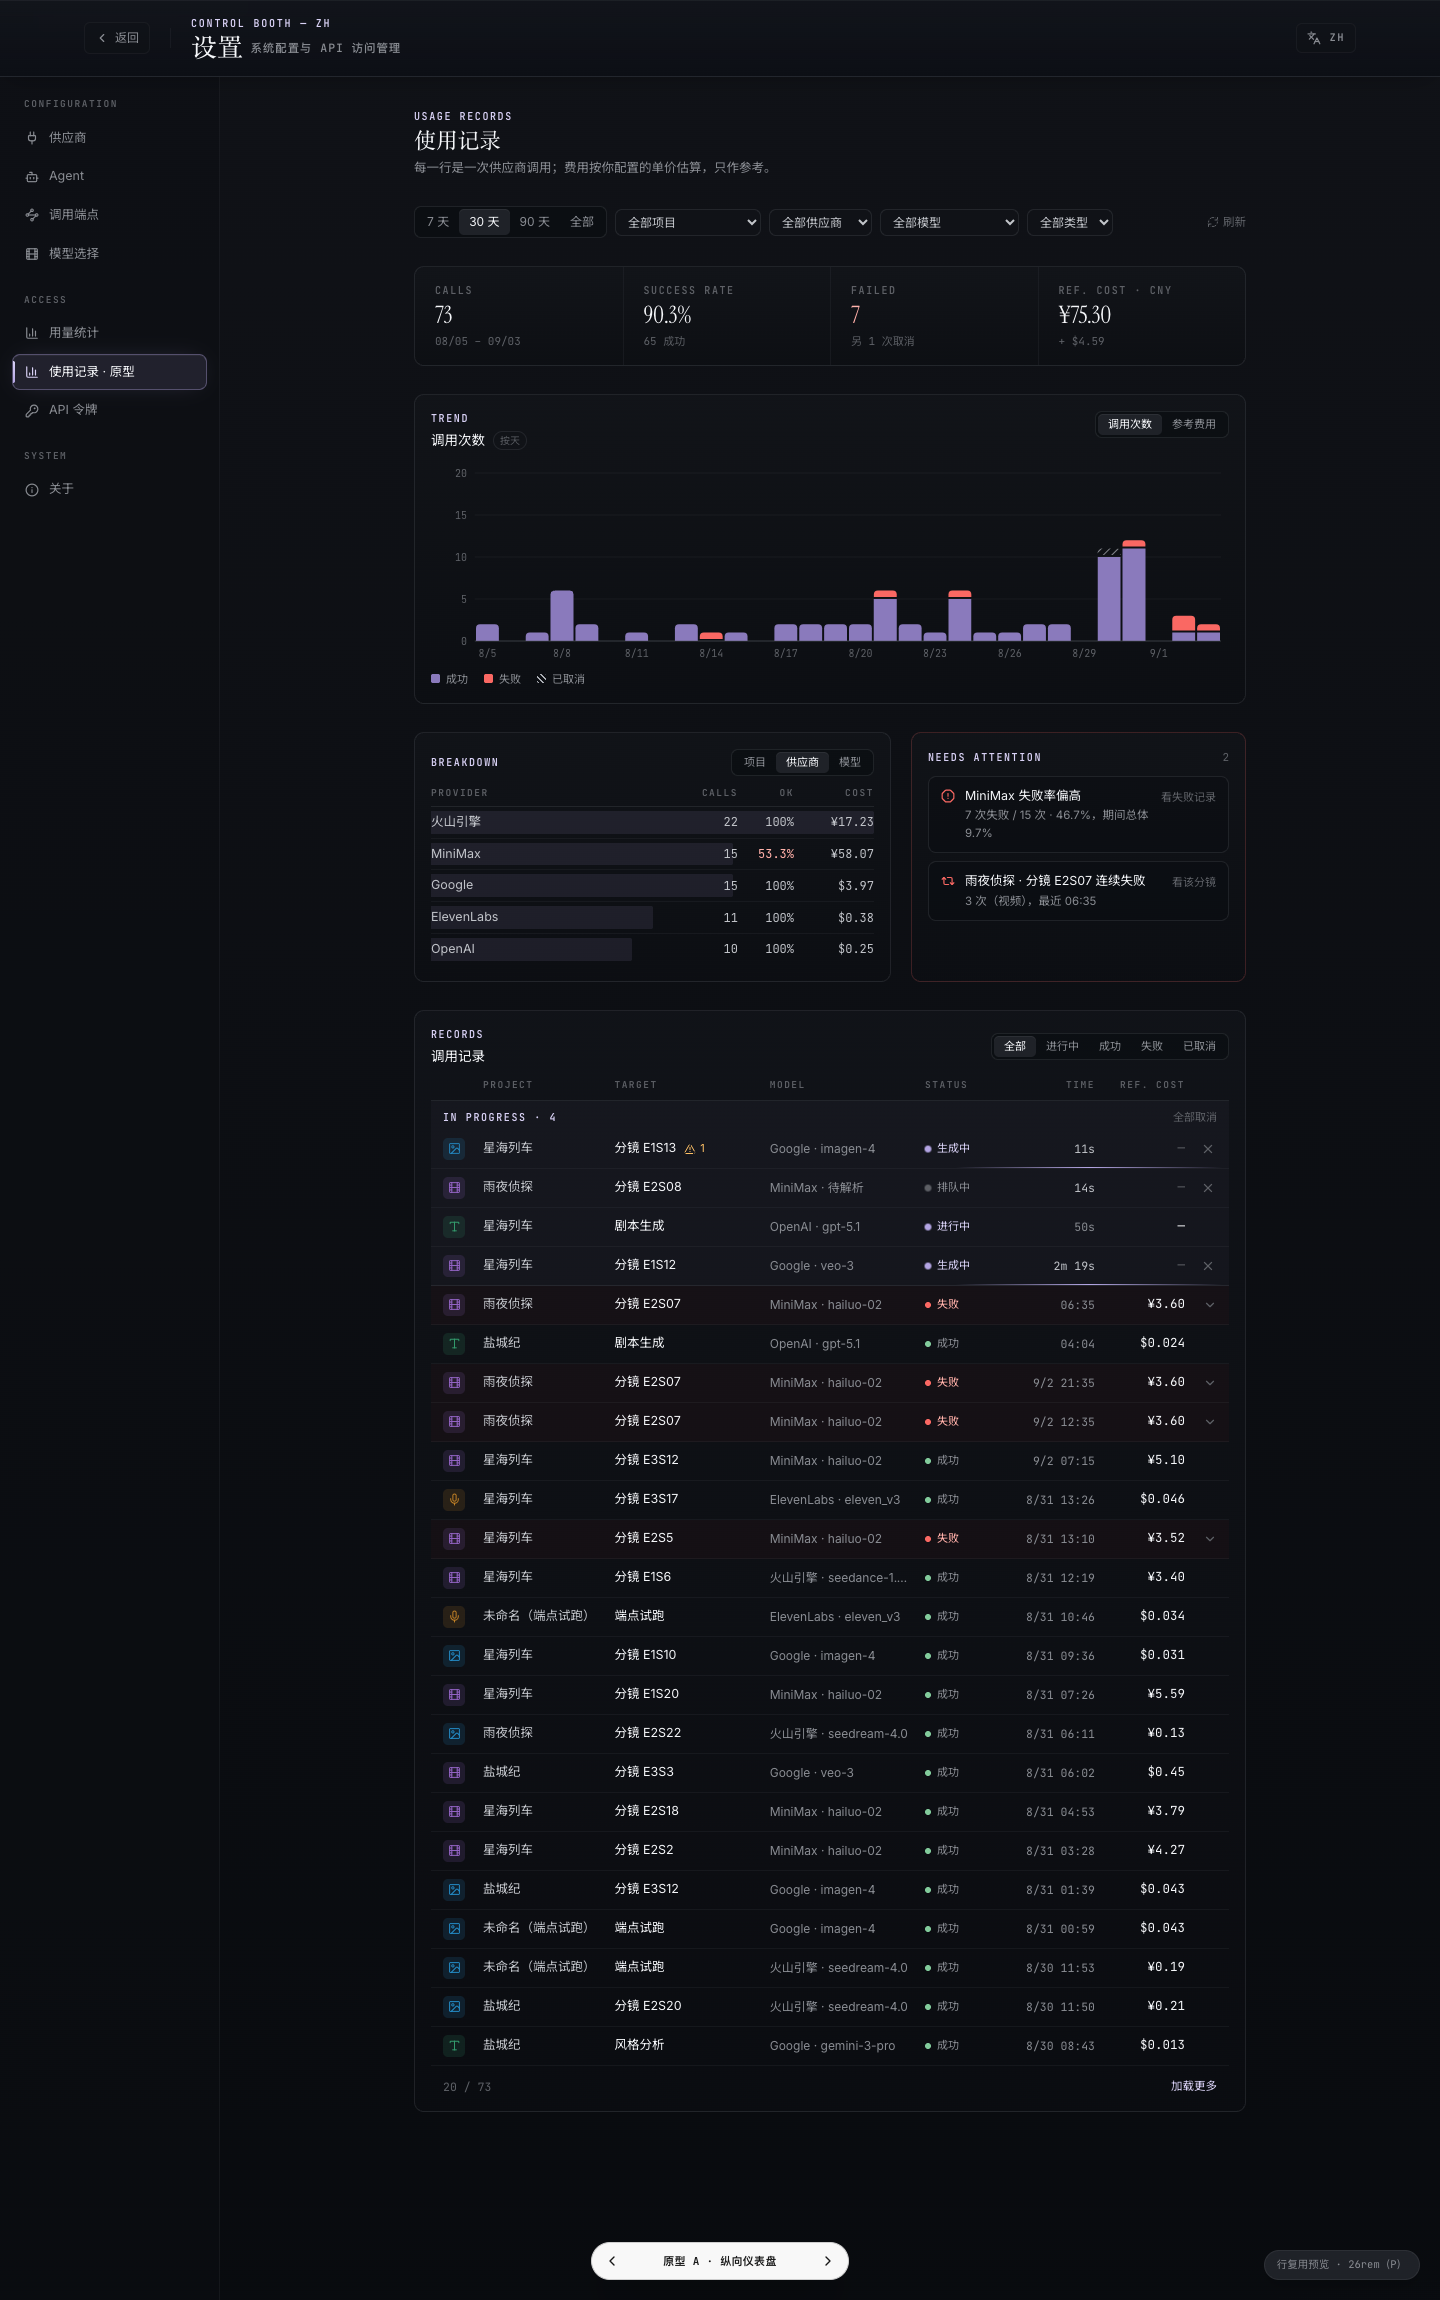
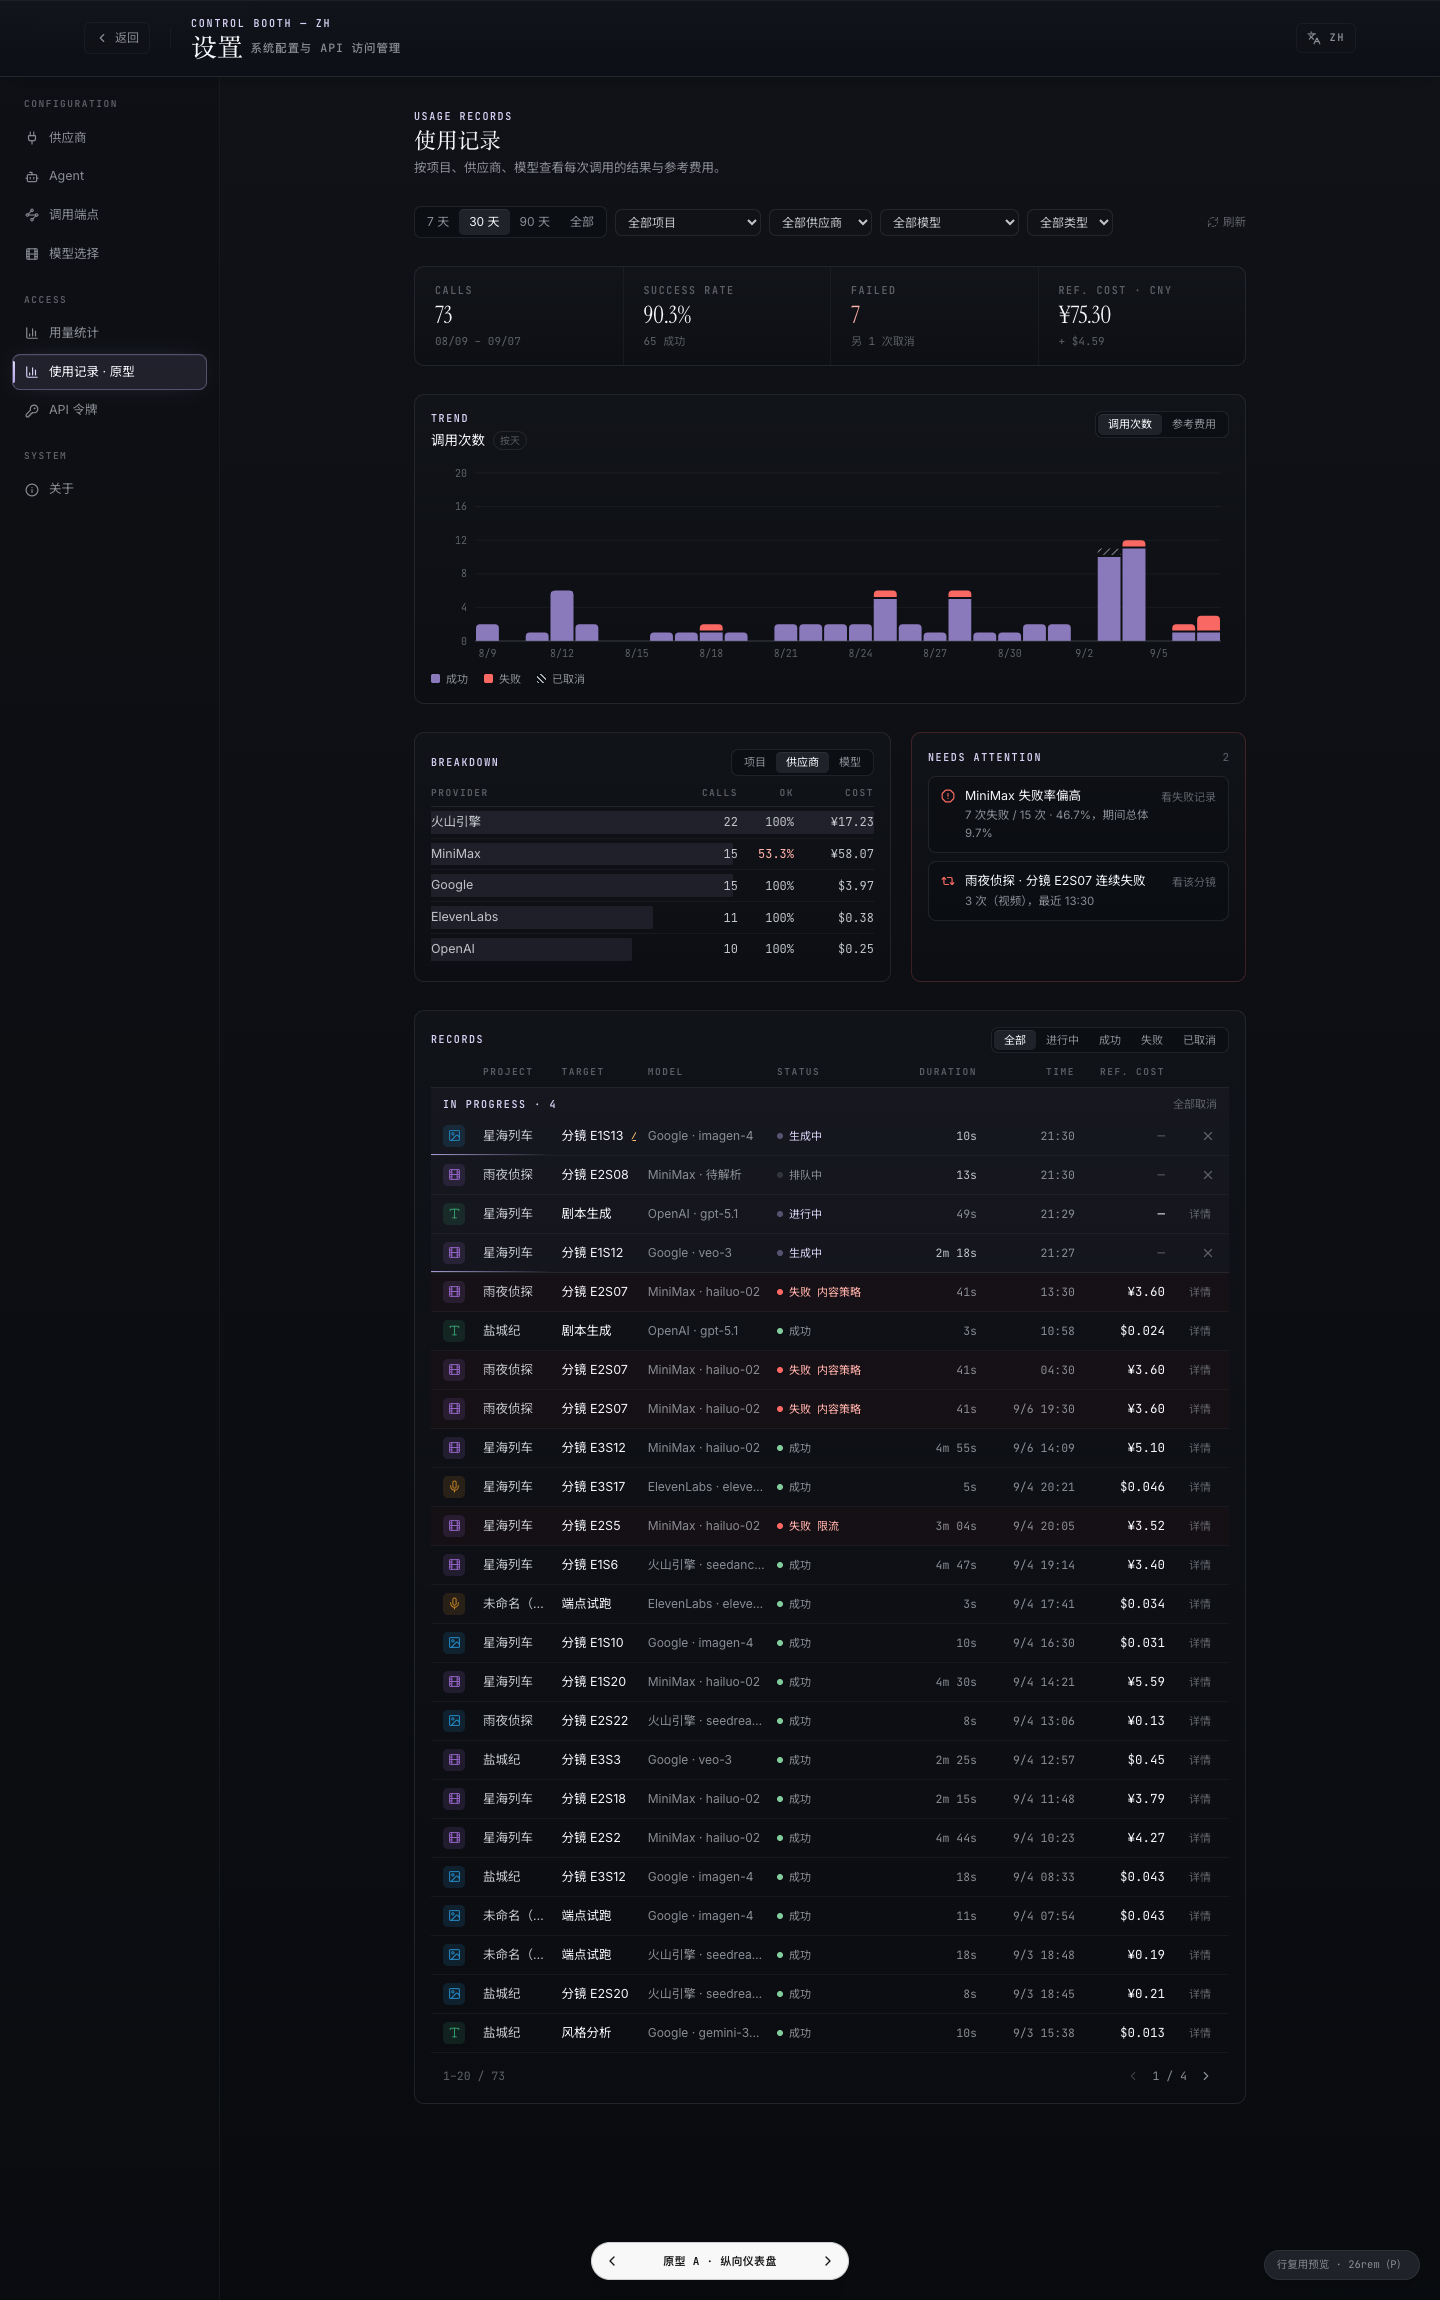
prototype(frontend): 使用记录详情弹窗去掉分镜筛选底栏，更新评审截图（#2290）

diff --git a/frontend/src/components/pages/settings/prototype/UsageRecordDetail.tsx b/frontend/src/components/pages/settings/prototype/UsageRecordDetail.tsx
@@ -5,7 +5,7 @@ import { createPortal } from "react-dom";
 import { ChevronRight, ExternalLink, X } from "lucide-react";
 
 import { ERROR_LABELS, MEDIA_LABELS, PURPOSE_LABELS, RECORDS, durationLabel, money, projectLabel, providerLabel, type UsageRecord } from "./usage-prototype-data";
-import { Kicker, MediaGlyph, StatusPill, useProtoFilters, useRecordParam } from "./usage-prototype-shared";
+import { Kicker, MediaGlyph, StatusPill, useRecordParam } from "./usage-prototype-shared";
 
 const EDITORIAL = { fontWeight: 400, fontSize: 20, lineHeight: 1.15, letterSpacing: "-0.01em" } as const;
 
@@ -110,7 +110,6 @@ function targetOf(r: UsageRecord) {
 }
 
 export function RecordDetailPanel({ record: r, onClose }: { record: UsageRecord; onClose: () => void }) {
-  const [, set] = useProtoFilters();
   const x = extrasOf(r);
   const failed = r.status === "failed";
   const error = failed ? (r.error_code ? ERROR_LABELS[r.error_code] : r.error_message) : null;
@@ -215,21 +214,6 @@ export function RecordDetailPanel({ record: r, onClose }: { record: UsageRecord;
           </Fold>
         </div>
 
-        {r.segment_id && (
-          <footer className="flex items-center gap-2 border-t border-hairline px-6 py-3">
-            <button
-              type="button"
-              onClick={() => {
-                set({ segment: r.segment_id, status: null });
-                onClose();
-              }}
-              className="rounded-[6px] border border-hairline px-2.5 py-1 text-[12px] text-text-2 transition-colors hover:border-accent/50 hover:text-text focus-visible:outline-none focus-visible:ring-2 focus-visible:ring-accent"
-            >
-              只看分镜 {r.segment_id}
-            </button>
-            <span className="text-[11px] text-text-4">写入筛选后关闭面板</span>
-          </footer>
-        )}
       </section>
     </div>,
     document.body,
